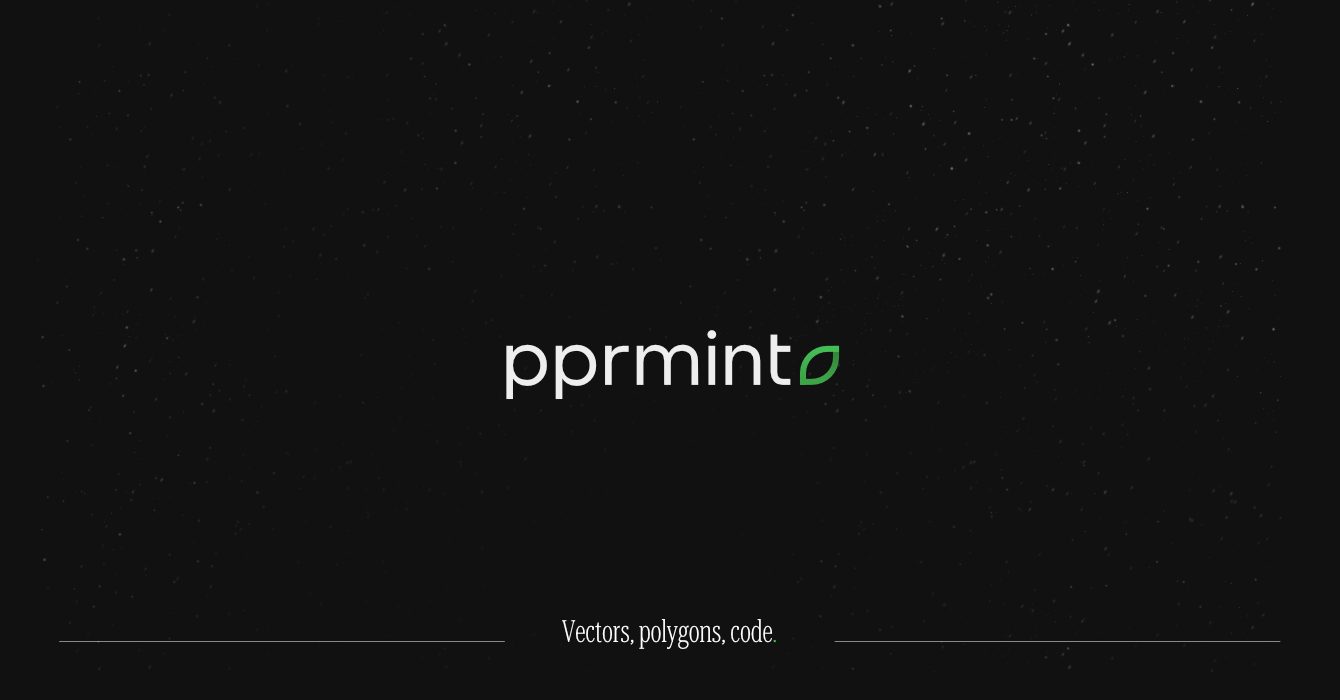
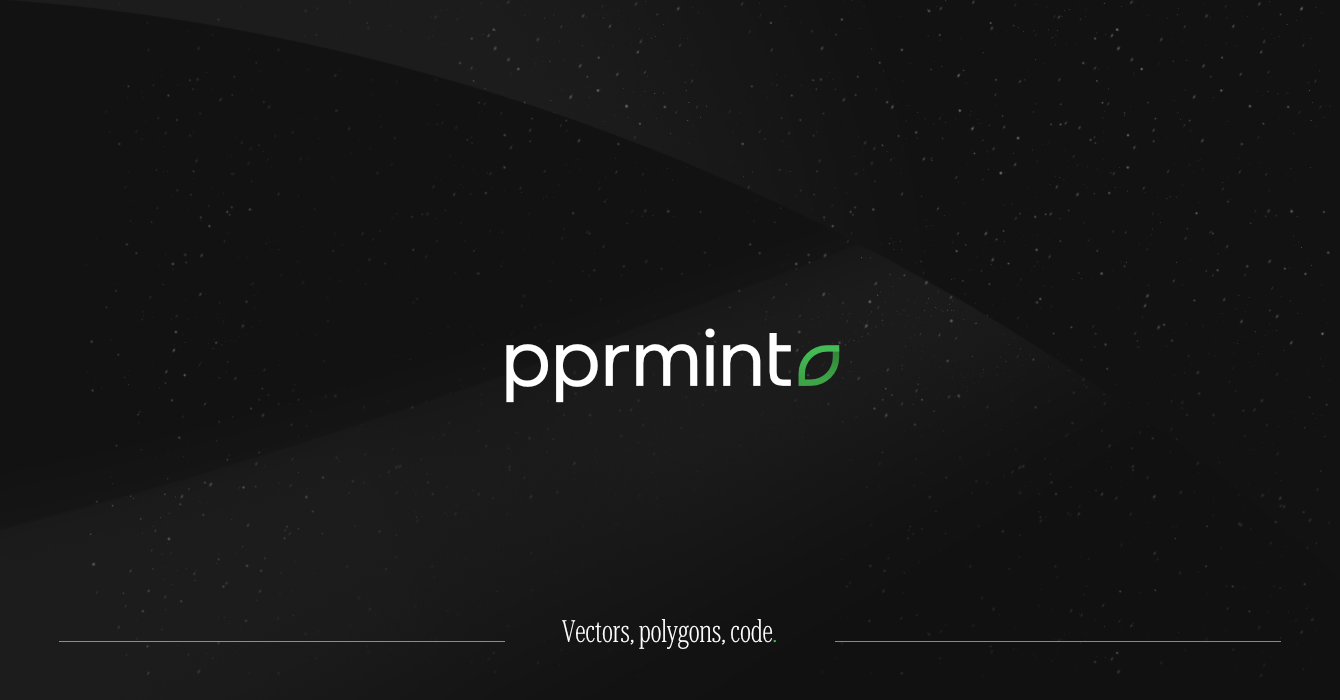
Rename Mina Sans and update various embed and preview images.

Changed region(s): [[0.3978, 0.48, 0.5813, 0.57], [0.5813, 0.54, 0.6119, 0.57]]

diff --git a/src/app/(frontend)/projects/varia/page.tsx b/src/app/(frontend)/projects/varia/page.tsx
@@ -8,7 +8,7 @@ import Link from "next/link";
 import ArrowRight from "@/icons/ArrowRight";
 
 export async function generateMetadata() {
-	const t = await getTranslations("MINASANS");
+	const t = await getTranslations("VARIA");
 	return {
 		title: t("Head.title"),
 		description: t("Head.description"),
@@ -16,13 +16,13 @@ export async function generateMetadata() {
 }
 
 export default function Page() {
-	const t = useTranslations("MINASANS");
+	const t = useTranslations("VARIA");
 	return (
 		<>
 			<Title title={t("Head.title")} description={t("Head.description")}>
 				<div className="absolute inset-0 bg-neutral-950">
 					<FadingImage
-						src="/api/assets/file/MinaSans_title.webp"
+						src="/api/assets/file/Varia_BG.png"
 						alt=""
 						fill
 						className="object-cover"
@@ -37,22 +37,25 @@ export default function Page() {
 			<main>
 				<section>
 					<div className="relative w-full aspect-video">
-						<FadingImage src="/api/assets/file/MinaSans_Cover.png" width={3840} height={2160} unoptimized alt="Slide 2" className="w-full" />
+						<FadingImage src="/api/assets/file/Varia_Cover.png" width={3840} height={2160} unoptimized alt="Slide 2" className="w-full" />
 					</div>
 					<div className="relative w-full aspect-video">
-						<FadingImage src="/api/assets/file/MinaSans_Alphabet.png" width={3840} height={2160} alt="Slide 1" className="w-full" />
+						<FadingImage src="/api/assets/file/Varia_Alphabet.png" width={3840} height={2160} alt="Slide 1" className="w-full" />
 					</div>
 					<div className="relative w-full aspect-video">
-						<FadingImage src="/api/assets/file/MinaSans_StVO.png" width={3840} height={2160} alt="Slide 3" className="w-full" />
+						<FadingImage src="/api/assets/file/Varia_CharacterVariants.png" width={3840} height={2160} alt="Slide 4" className="w-full" />
 					</div>
 					<div className="relative w-full aspect-video">
-						<FadingImage src="/api/assets/file/MinaSans_faktor.png" width={3840} height={2160} alt="Slide 6" className="w-full" />
+						<FadingImage src="/api/assets/file/Varia_StVO.png" width={3840} height={2160} alt="Slide 3" className="w-full" />
 					</div>
 					<div className="relative w-full aspect-video">
-						<FadingImage src="/api/assets/file/MinaSans_Nondescript_phone.png" width={3840} height={2160} alt="Slide 5" className="w-full" />
+						<FadingImage src="/api/assets/file/Varia_Time.png" width={3840} height={2160} alt="Slide 5" className="w-full" />
 					</div>
 					<div className="relative w-full aspect-video">
-						<FadingImage src="/api/assets/file/MinaSans_Release_date.png" width={3840} height={2160} alt="Slide 6" className="w-full" />
+						<FadingImage src="/api/assets/file/Varia_Faktor.png" width={3840} height={2160} alt="Slide 6" className="w-full" />
+					</div>
+					<div className="relative w-full aspect-video">
+						<FadingImage src="/api/assets/file/Varia_ReleaseDate.png" width={3840} height={2160} alt="Slide 6" className="w-full" />
 					</div>
 					<div className="relative w-full aspect-video">
 						<FadingImage src="/api/assets/file/MinaSans_Mina.png" width={3840} height={2160} alt="Slide 4" className="w-full" />

diff --git a/src/app/(frontend)/page.tsx b/src/app/(frontend)/page.tsx
@@ -50,27 +50,27 @@ export default async function Page() {
 					<div className="relative z-10 max-w-8xl mx-auto px-6 md:px-9 lg:px-12 xl:px-20">
 						<div className="py-20 md:py-32 xl:py-40 border-x border-white/5">
 							<p className="text-white text-xl lg:text-2xl xl:text-3xl font-stretch-condensed">
-								{t("Content.Featured.MinaSans.tagline")}
+								{t("Content.Featured.Varia.tagline")}
 							</p>
 							<h2 className="text-3xl md:text-4xl lg:text-5xl xl:text-6xl">
-								Mina Sans<span className="text-green">.</span>
+								MN Varia<span className="text-green">.</span>
 							</h2>
 							<p className="text-white/75 xl:text-xl 2xl:text-2xl mb-6 max-w-[75%] text-balance">
-								{t("Content.Featured.MinaSans.text")}
+								{t("Content.Featured.Varia.text")}
 							</p>
-							<Link href="/projects/minasans" className="inline-flex w-fit">
+							<Link href="/projects/varia" className="inline-flex w-fit">
 								<Button design="semi-transparent">
-									{t("Content.Featured.MinaSans.button")}
+									{t("Content.Featured.Varia.button")}
 								</Button>
 							</Link>
 						</div>
 					</div>
 					<FadingImage
-						src="/api/assets/file/IMG0902_2e9636cf91.webp"
-						width={1803}
-						height={1200}
+						src="/api/assets/file/Varia_BG.png"
+						width={2680}
+						height={1400}
 						alt=""
-						className="absolute right-0 top-1/2 -translate-y-1/2 object-cover xl:object-auto xl:w-3/4 h-full xl:h-auto"
+						className="absolute inset-0 object-cover origin-top"
 						style={{
 							maskImage:
 								"linear-gradient(to left, rgba(0,0,0,1), rgba(0,0,0,0))",

diff --git a/src/app/(frontend)/projects/grid.tsx b/src/app/(frontend)/projects/grid.tsx
@@ -17,7 +17,7 @@ import MintbitImage from "./mintbit/twitter-image.png";
 import MintcraftImage from "./mintcraft/twitter-image.png";
 import MintsansImage from "./mintsans/twitter-image.png";
 import MinttrianglesImage from "./minttriangles/twitter-image.png";
-import MinasansImage from "./minasans/twitter-image.png";
+import VariaImage from "./varia/twitter-image.png";
 import TentativeImage from "./tentative/twitter-image.png";
 import YtdgImage from "./ytdg/twitter-image.png";
 import { useState } from "react";
@@ -30,9 +30,9 @@ const ProjectsList = [
 		link: "https://pomi.moe",
 	},
 	{
-		name: "minasans",
+		name: "varia",
 		tags: ["font"],
-		image: MinasansImage,
+		image: VariaImage,
 	},
 	{
 		name: "autsellia",

diff --git a/next.config.ts b/next.config.ts
@@ -92,7 +92,17 @@ module.exports = withPayload(
 				},
 				{
 					source: "/minasans",
-					destination: "/projects/minasans",
+					destination: "/projects/varia",
+					permanent: false,
+				},
+				{
+					source: "/projects/minasans",
+					destination: "/projects/varia",
+					permanent: false,
+				},
+				{
+					source: "/varia",
+					destination: "/projects/varia",
 					permanent: false,
 				},
 				{
